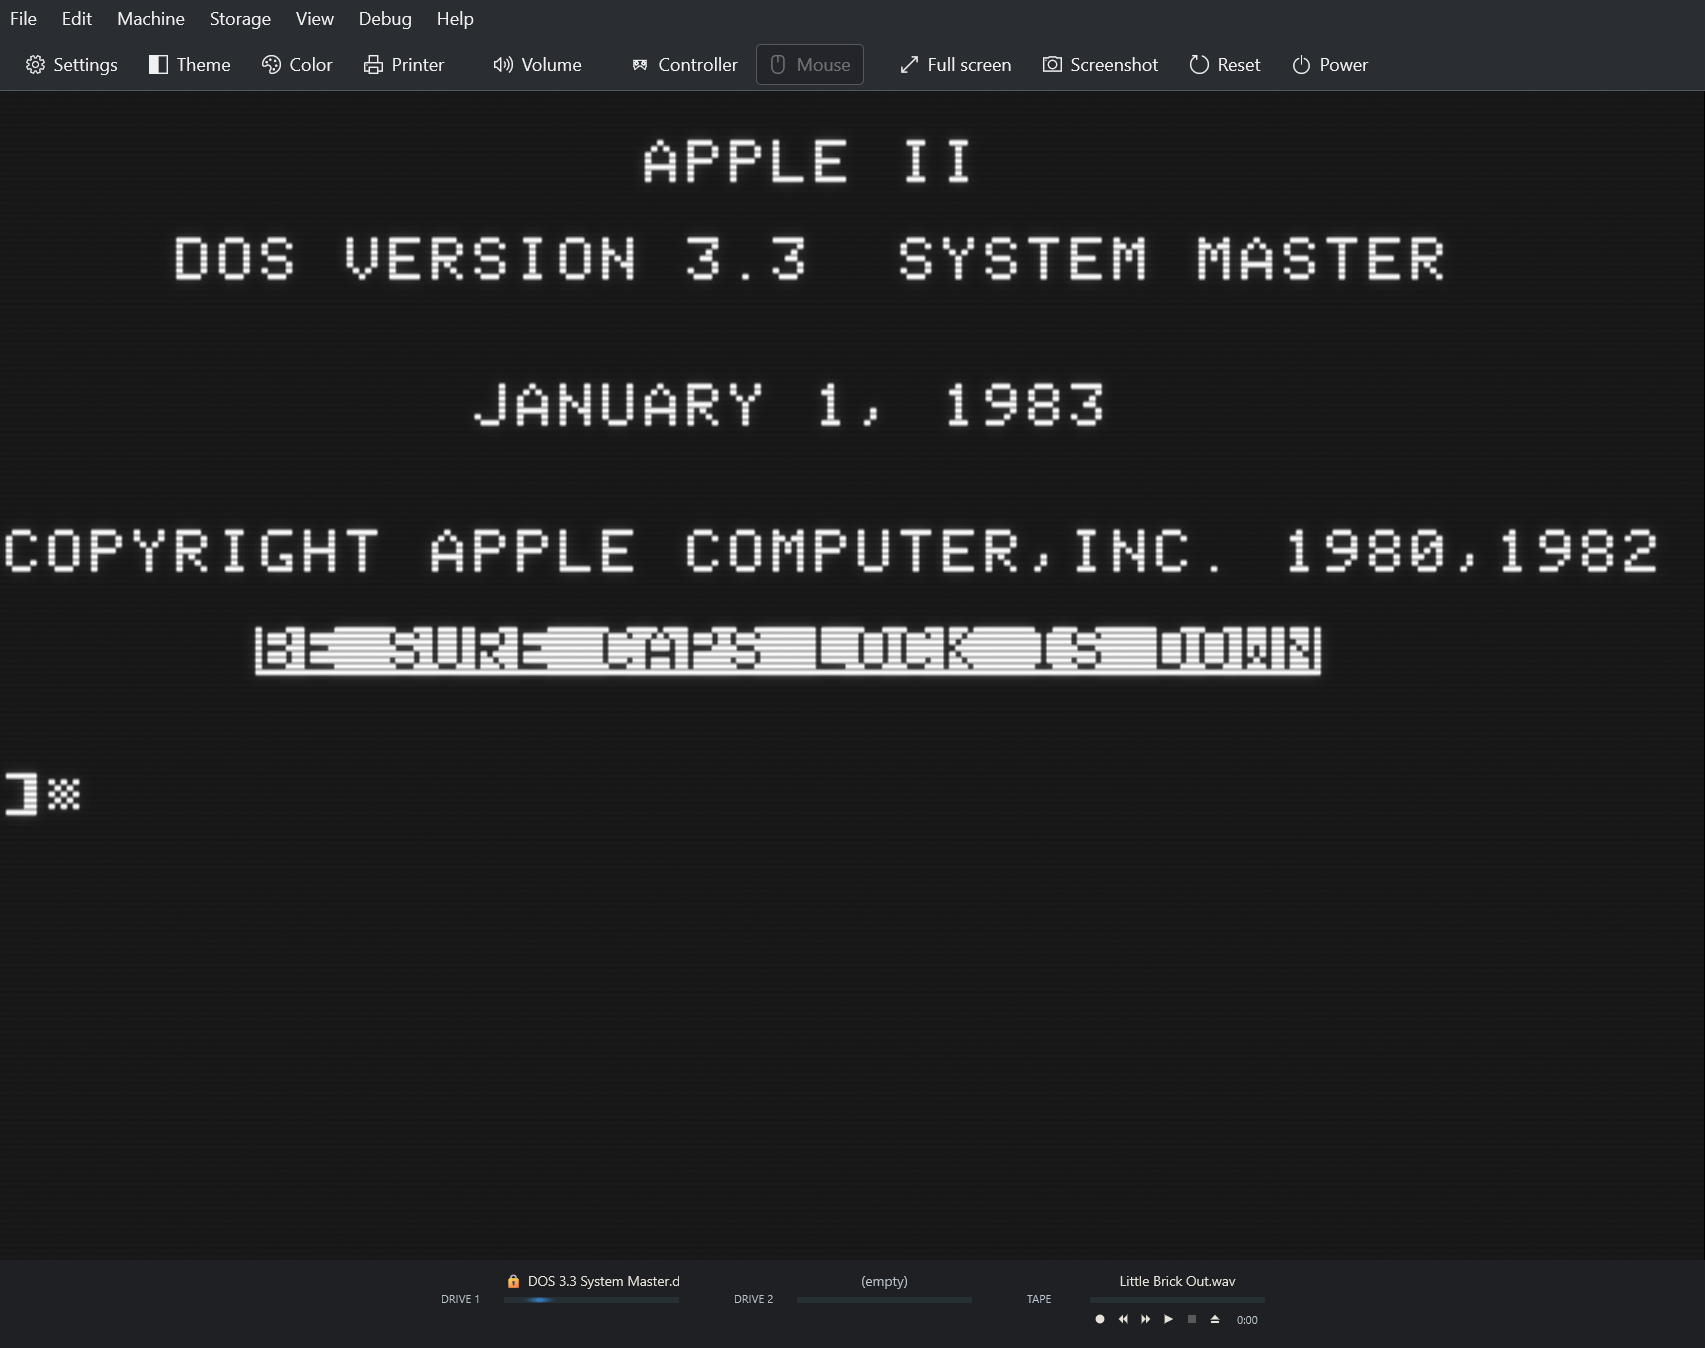
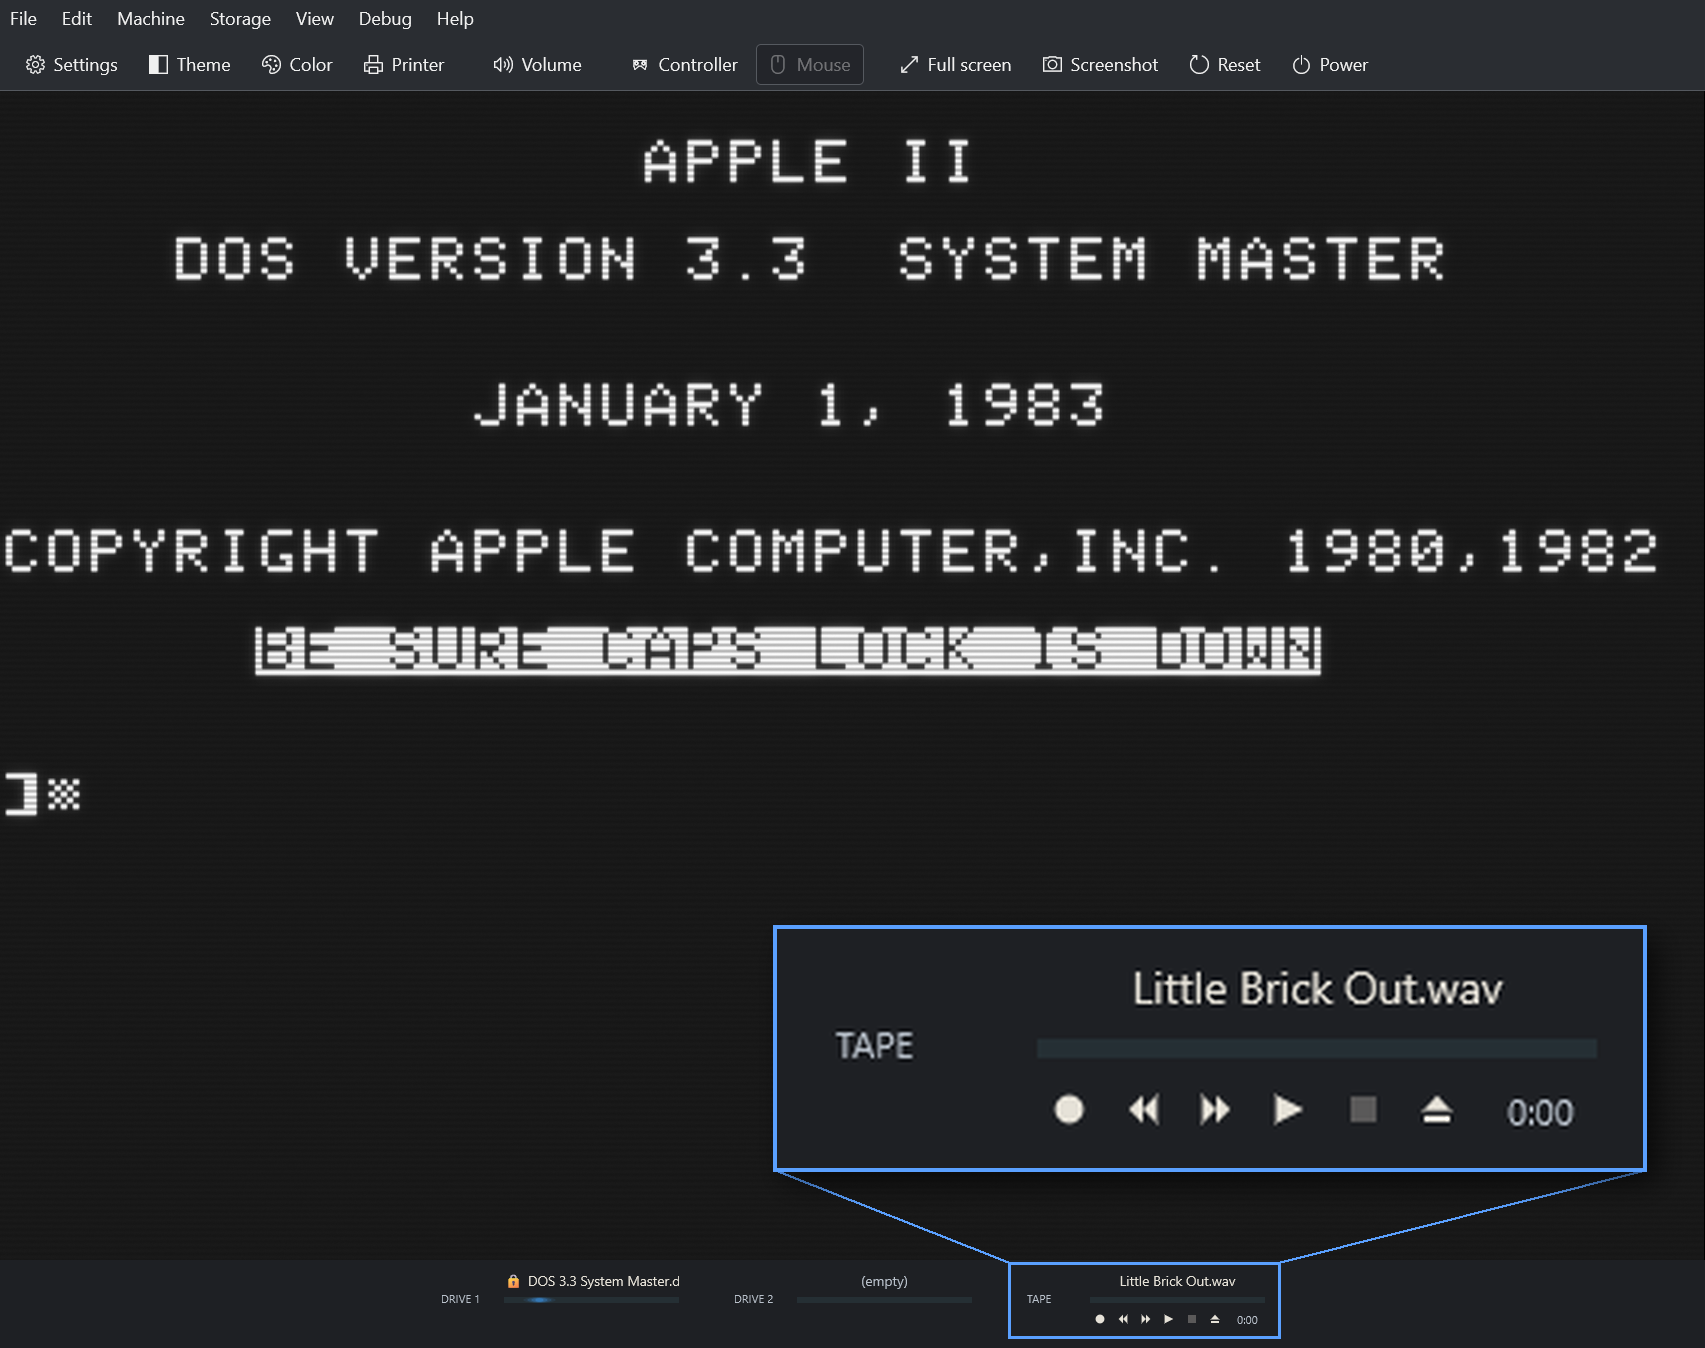
docs(readme): Show the tape deck with a magnified callout

diff --git a/README.md b/README.md
@@ -112,7 +112,7 @@ drives, so it takes no extra room.
 <tr>
   <td valign="top" width="39%" align="center"><img src="Assets/tape-1-31-desk.png" alt="The Apple //e desk scene: a Monitor II over two Disk II drives, with the Panasonic RQ-309DS cassette recorder beside them, a cassette in its well and Little Brick Out.wav and the counter 0:00 / 2:20 under it" width="100%" /><br /><sub>The recorder beside the drives</sub></td>
   <td valign="top" width="29%" align="center"><img src="Assets/tape-1-31-cassette.png" alt="A close view of the RQ-309DS from above: a cassette in the well under the smoked lid, with Little Brick Out handwritten in blue on its label, white hubs in the spool holes, the speaker grille behind, and the embossed Panasonic badge, condenser mic bars and key legends in front" width="100%" /><br /><sub>The tape's name, written on its label</sub></td>
-  <td valign="top" width="32%" align="center"><img src="Assets/tape-1-31-darkmodern.png" alt="Casso in the Dark Modern theme at the DOS 3.3 prompt: the menu and toolbar above the picture, and the drive band below it with Drive 1, Drive 2 and the tape deck side by side, the deck showing Little Brick Out.wav, its Record, Rewind, Fast-forward, Play, Stop and Eject buttons and the counter at 0:00" width="100%" /><br /><sub>The tape deck in the Dark Modern drive band</sub></td>
+  <td valign="top" width="32%" align="center"><img src="Assets/tape-1-31-darkmodern.png" alt="Casso in the Dark Modern theme at the DOS 3.3 prompt: the menu and toolbar above the picture, and the drive band below it with Drive 1, Drive 2 and the tape deck side by side, the deck showing Little Brick Out.wav, its Record, Rewind, Fast-forward, Play, Stop and Eject buttons and the counter at 0:00, with a magnified callout of the deck over the picture" width="100%" /><br /><sub>The tape deck in the Dark Modern drive band</sub></td>
 </tr>
 </table>
 
